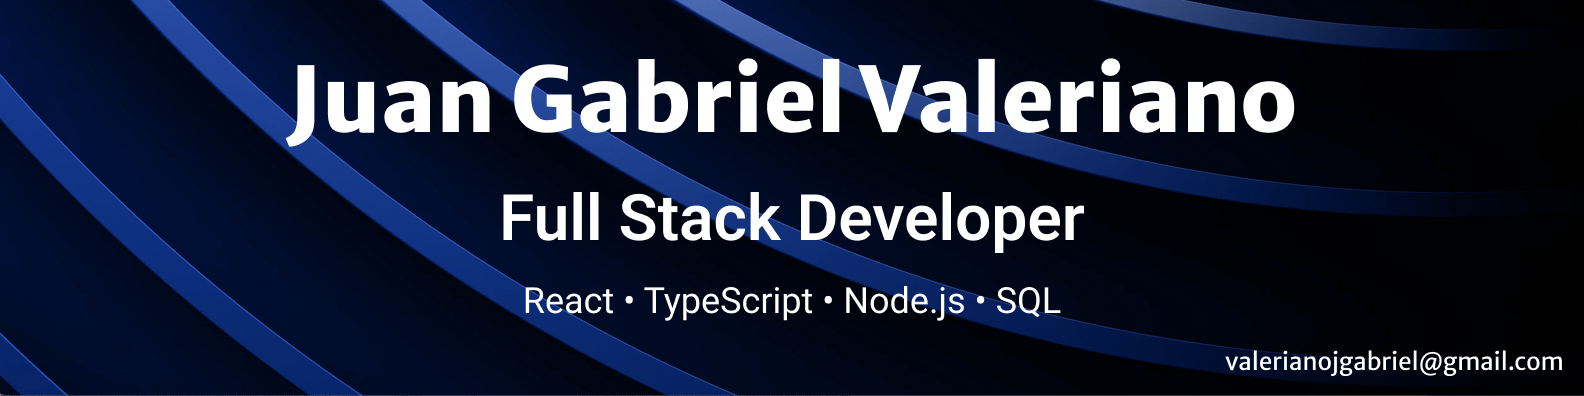
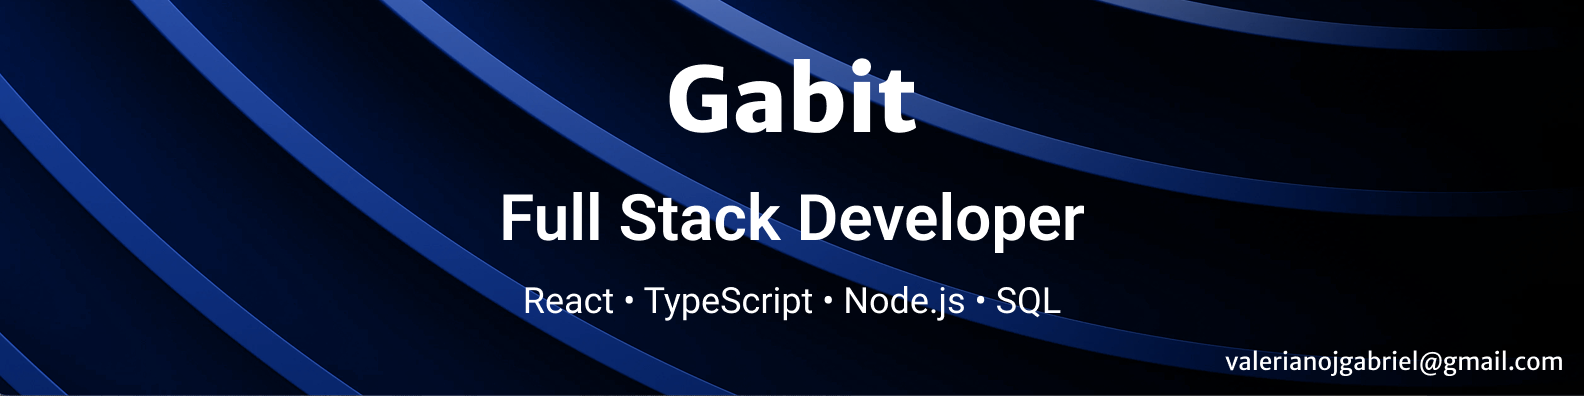
feat: add technology badges and restructure the README file

Changed region(s): [[0.1547, 0.1515, 0.8352, 0.3636]]

diff --git a/README.md b/README.md
@@ -1,85 +1,73 @@
 <img title="Header" alt="repository's header" src="./portrait.png">
 
-### Hi people 👋, I'm Gabit a software engineer
+### Hi people I'm Gabit
 
-- I'm from Buenos Aires, Argentina 🧉
-- I enjoy science, technology, 🎮, and 😺
-- I'm currently working towards becoming a fullstack developer
-- I’d like to have fun in IT and use technology to benefit people
-  <img src="https://github.com/7oSkaaa/7oSkaaa/blob/main/Images/Right_Side.gif?raw=true" width="170px">
+Full Stack Developer with 3 years of software consulting experience across the healthcare, energy, and non-profit sectors.  
+After starting my career in backend development, I transitioned to the frontend.  
+I'm currently working towards becoming a full stack AI engineer.
 
-## **MY SKILLS**
+[![Portfolio](https://img.shields.io/badge/portfolio-blue?style=for-the-badge&logo=Setuptools)](https://jgabit.netlify.app)
 
-### Programming language
-
-<div >
-	<img width="50" src="https://raw.githubusercontent.com/marwin1991/profile-technology-icons/refs/heads/main/icons/c.png" alt="C" title="C"/>
-	<img width="50" src="https://raw.githubusercontent.com/marwin1991/profile-technology-icons/refs/heads/main/icons/c++.png" alt="C++" title="C++"/>
-	<img width="50" src="https://raw.githubusercontent.com/marwin1991/profile-technology-icons/refs/heads/main/icons/java.png" alt="Java" title="Java"/>
-</div>
+## **Stack**
 
 ### Frontend
 
-<div >
-	<img width="50" src="https://raw.githubusercontent.com/marwin1991/profile-technology-icons/refs/heads/main/icons/html.png" alt="HTML" title="HTML"/>
-	<img width="50" src="https://raw.githubusercontent.com/marwin1991/profile-technology-icons/refs/heads/main/icons/css.png" alt="CSS" title="CSS"/>
-	<img width="50" src="https://raw.githubusercontent.com/marwin1991/profile-technology-icons/refs/heads/main/icons/javascript.png" alt="JavaScript" title="JavaScript"/>
-	<img width="50" src="https://raw.githubusercontent.com/marwin1991/profile-technology-icons/refs/heads/main/icons/typescript.png" alt="TypeScript" title="TypeScript"/>
-	<img width="50" src="https://raw.githubusercontent.com/marwin1991/profile-technology-icons/refs/heads/main/icons/react.png" alt="React" title="React"/>
-	<img width="50" src="https://raw.githubusercontent.com/marwin1991/profile-technology-icons/refs/heads/main/icons/react_query.png" alt="React Query" title="React Query"/>
-	<img width="50" src="https://raw.githubusercontent.com/marwin1991/profile-technology-icons/refs/heads/main/icons/vite.png" alt="Vite" title="Vite"/>
-	<img width="50" src="https://raw.githubusercontent.com/marwin1991/profile-technology-icons/refs/heads/main/icons/material_ui.png" alt="Material UI" title="Material UI"/>
-	<img width="50" src="https://raw.githubusercontent.com/marwin1991/profile-technology-icons/refs/heads/main/icons/tailwind_css.png" alt="Tailwind CSS" title="Tailwind CSS"/>
-  <img width="50" src="https://raw.githubusercontent.com/marwin1991/profile-technology-icons/refs/heads/main/icons/bootstrap.png" alt="Bootstrap" title="Bootstrap"/>
-  <img width="50" src="https://raw.githubusercontent.com/marwin1991/profile-technology-icons/refs/heads/main/icons/sass.png" alt="Sass" title="Sass"/>
-</div>
+![JavaScript](https://img.shields.io/badge/JavaScript-F7DF1E?style=for-the-badge&logo=javascript&logoColor=black)
+![React](https://img.shields.io/badge/React-20232A?style=for-the-badge&logo=react&logoColor=61DAFB)
+![TypeScript](https://img.shields.io/badge/TypeScript-3178C6?style=for-the-badge&logo=typescript&logoColor=white)
+![Material UI](https://img.shields.io/badge/Material--UI-007FFF?style=for-the-badge&logo=mui&logoColor=white)
+![Tailwind CSS](https://img.shields.io/badge/Tailwind_CSS-06B6D4?style=for-the-badge&logo=tailwindcss&logoColor=white)
+![shadcn/ui](https://img.shields.io/badge/shadcn%2Fui-000000?style=for-the-badge&logo=shadcnui&logoColor=white)
+![Angular](https://img.shields.io/badge/Angular-DD0031?style=for-the-badge&logo=angular&logoColor=white)
 
 ### Backend
 
-<div >
-	<img width="50" src="https://raw.githubusercontent.com/marwin1991/profile-technology-icons/refs/heads/main/icons/node_js.png" alt="Node.js" title="Node.js"/>
-	<img width="50" src="https://raw.githubusercontent.com/marwin1991/profile-technology-icons/refs/heads/main/icons/express.png" alt="Express" title="Express"/>
-	<img width="50" src="https://raw.githubusercontent.com/marwin1991/profile-technology-icons/refs/heads/main/icons/nest_js.png" alt="Nest.js" title="Nest.js"/>
-	<img width="50" src="https://raw.githubusercontent.com/marwin1991/profile-technology-icons/refs/heads/main/icons/spring_boot.png" alt="Spring Boot" title="Spring Boot"/>
-	<img width="50" src="https://raw.githubusercontent.com/marwin1991/profile-technology-icons/refs/heads/main/icons/postgresql.png" alt="PostgreSQL" title="PostgreSQL"/>
-	<img width="50" src="https://raw.githubusercontent.com/marwin1991/profile-technology-icons/refs/heads/main/icons/mysql.png" alt="MySQL" title="MySQL"/>
-	<img width="50" src="https://raw.githubusercontent.com/marwin1991/profile-technology-icons/refs/heads/main/icons/mongodb.png" alt="mongoDB" title="mongoDB"/>
-</div>
+![NestJS](https://img.shields.io/badge/NestJS-E0234E?style=for-the-badge&logo=nestjs&logoColor=white)
+![Node.js](https://img.shields.io/badge/Node.js-339933?style=for-the-badge&logo=nodedotjs&logoColor=white)
+![Express.js](https://img.shields.io/badge/Express.js-000000?style=for-the-badge&logo=express&logoColor=white)
+![Next.js](https://img.shields.io/badge/Next.js-000000?style=for-the-badge&logo=nextdotjs&logoColor=white)
+![Java](https://img.shields.io/badge/Java-ED8B00?style=for-the-badge&logo=openjdk&logoColor=white)
+![Spring Boot](https://img.shields.io/badge/Spring_Boot-6DB33F?style=for-the-badge&logo=springboot&logoColor=white)
+
+### Database
+
+![PostgreSQL](https://img.shields.io/badge/PostgreSQL-4169E1?style=for-the-badge&logo=postgresql&logoColor=white)
+![MySQL](https://img.shields.io/badge/MySQL-4479A1?style=for-the-badge&logo=mysql&logoColor=white)
+![MongoDB](https://img.shields.io/badge/MongoDB-47A248?style=for-the-badge&logo=mongodb&logoColor=white)
+![SQLite](https://img.shields.io/badge/SQLite-003B57?style=for-the-badge&logo=sqlite&logoColor=white)
 
 ### Testing
 
-<div >
-	<img width="50" src="https://raw.githubusercontent.com/marwin1991/profile-technology-icons/refs/heads/main/icons/playwright.png" alt="Playwright" title="Playwright"/>
-</div>
+![Jest](https://img.shields.io/badge/Jest-C21325?style=for-the-badge&logo=jest&logoColor=white)
+![Vitest](https://img.shields.io/badge/Vitest-6E9F18?style=for-the-badge&logo=vitest&logoColor=white)
+![React Testing Library](https://img.shields.io/badge/React_Testing_Library-E33332?style=for-the-badge&logo=testinglibrary&logoColor=white)
+![Playwright](https://img.shields.io/badge/Playwright-2EAD33?style=for-the-badge&logo=playwright&logoColor=white)
+![Supertest](https://img.shields.io/badge/Supertest-000000?style=for-the-badge&logo=jest&logoColor=white)
+![JUnit](https://img.shields.io/badge/JUnit-25A162?style=for-the-badge&logo=junit5&logoColor=white)
 
 ### Development tools
 
-<div >
-	<img width="50" src="https://raw.githubusercontent.com/marwin1991/profile-technology-icons/refs/heads/main/icons/visual_studio_code.png" alt="Visual Studio Code" title="Visual Studio Code"/>
-	<img width="50" src="https://raw.githubusercontent.com/marwin1991/profile-technology-icons/refs/heads/main/icons/git.png" alt="Git" title="Git"/>
-	<img width="50" src="https://raw.githubusercontent.com/marwin1991/profile-technology-icons/refs/heads/main/icons/docker.png" alt="Docker" title="Docker"/>
-	<img width="50" src="https://raw.githubusercontent.com/marwin1991/profile-technology-icons/refs/heads/main/icons/npm.png" alt="npm" title="npm"/>
-	<img width="50" src="https://raw.githubusercontent.com/marwin1991/profile-technology-icons/refs/heads/main/icons/postman.png" alt="Postman" title="Postman"/>
-	<img width="50" src="https://raw.githubusercontent.com/marwin1991/profile-technology-icons/refs/heads/main/icons/figma.png" alt="Figma" title="Figma"/>
-</div>
-   
-## **STATISTICS**
-![Top Langs](https://github-readme-stats.vercel.app/api/top-langs/?username=gabit690&layout=compact&theme=tokyonight)
+![Git](https://img.shields.io/badge/Git-F05032?style=for-the-badge&logo=git&logoColor=white)
+![Docker](https://img.shields.io/badge/Docker-2496ED?style=for-the-badge&logo=docker&logoColor=white)
+![Cursor](https://img.shields.io/badge/Cursor-000000?style=for-the-badge&logo=cursor&logoColor=white)
+![OpenCode](https://img.shields.io/badge/OpenCode-000000?style=for-the-badge&logo=opencode&logoColor=white)
+![Postman](https://img.shields.io/badge/Postman-FF6C37?style=for-the-badge&logo=postman&logoColor=white)
+![Husky](https://img.shields.io/badge/Husky-000000?style=for-the-badge&logo=git&logoColor=white)
+![Linux](https://img.shields.io/badge/Linux-FCC624?style=for-the-badge&logo=linux&logoColor=black)
+![Jira](https://img.shields.io/badge/Jira-0052CC?style=for-the-badge&logo=jira&logoColor=white)
+![Firebase](https://img.shields.io/badge/Firebase-FFCA28?style=for-the-badge&logo=firebase&logoColor=black)
 
-```C
-#include <stdio.h>
+## Statistics
 
-int main() {
-  printf("Thanks for visiting.");
-  return 0;
-}
-```
+![Top Languages](https://github-readme-stats.vercel.app/api/top-langs/?username=gabit690&layout=compact&theme=tokyonight)
 
-## **CONTACT**
+[![FreeCodeCamp points](https://img.shields.io/freecodecamp/points/gabit?style=for-the-badge&logo=FreeCodeCamp&label=FreeCodeCamp%20points)](https://www.freecodecamp.org/gabit)
 
-<a href="https://jgabit.netlify.app">
-  <img alt="Gabit's portfolio" width="40px" src="https://cdn4.iconfinder.com/data/icons/marketing-and-business-flat-icons/512/briefcase_work_documents_marketing_business_flat_icon_symbol-512.png" />
-</a>
-<a href="https://www.linkedin.com/in/jgvaleriano">
-  <img alt="Gabit's Linkedin" width="40px" src="https://upload.wikimedia.org/wikipedia/commons/8/81/LinkedIn_icon.svg?utm_source=es.wikipedia.org&utm_campaign=index&utm_content=original" />
-</a>
+## Networking
+
+Open to new job opportunities. Let's work together.
+
+[![LinkedIn](https://img.shields.io/badge/in_jgvaleriano-0A66C2?style=for-the-badge)](https://www.linkedin.com/in/jgvaleriano)
+[![Contact email](https://img.shields.io/badge/valerianojgabriel-white?style=for-the-badge&logo=Gmail)](mailto:valerianojgabriel@gmail.com)
+
+![Typing SVG](https://readme-typing-svg.demolab.com?font=Fira+Code&pause=1000&color=18E699&width=435&lines=Thank+you+for+your+visit+%F0%9F%91%8B)
